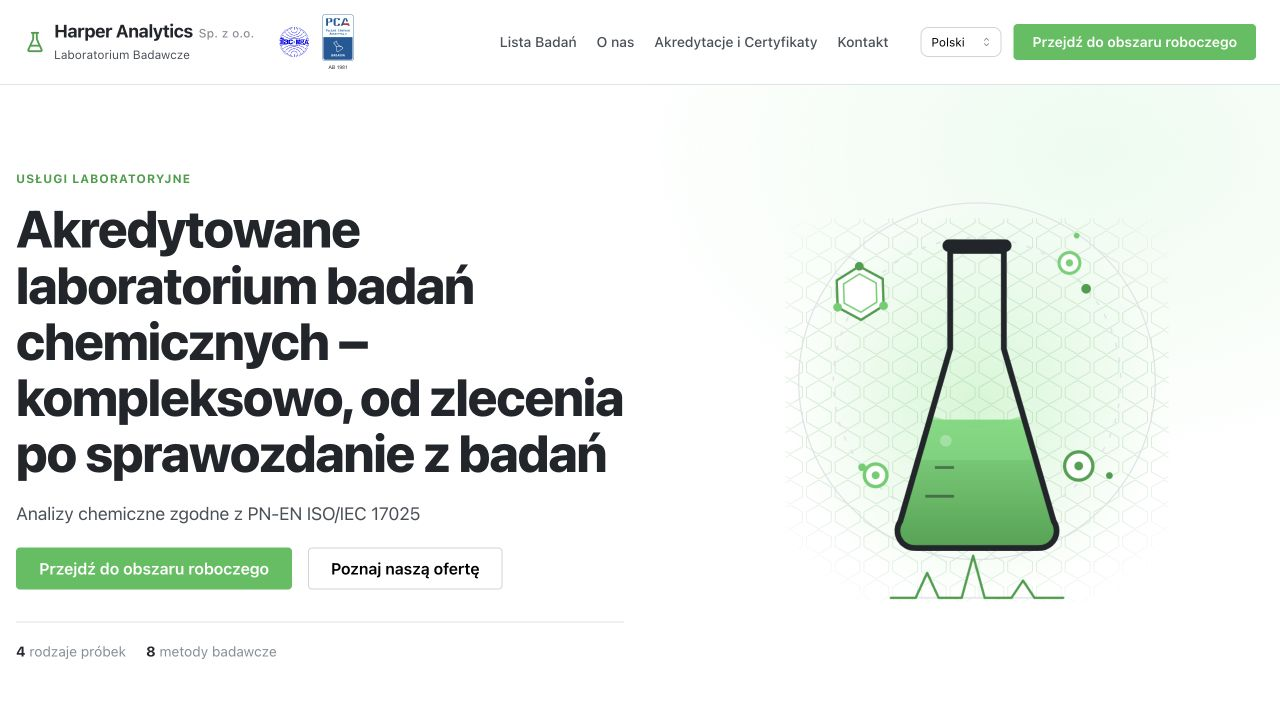
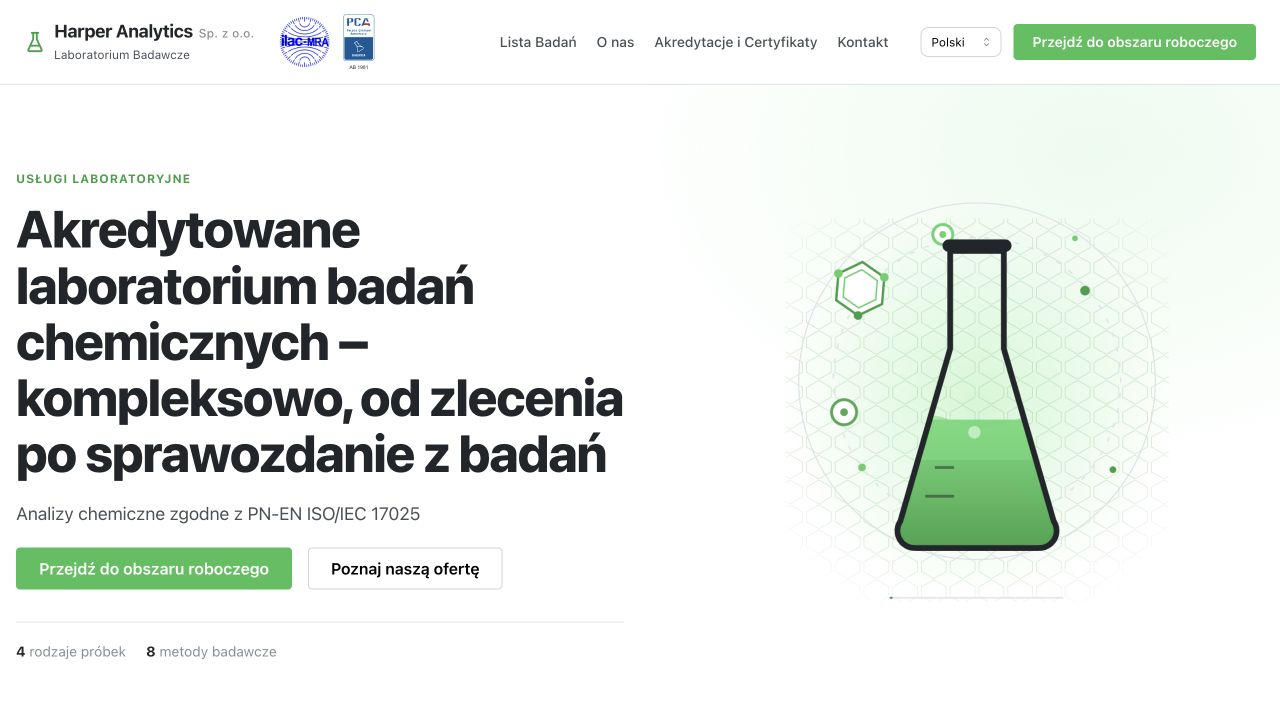
Set ILAC MRA height to 95 percent of PCA

diff --git a/apps/web/src/components/landing/landing.module.css b/apps/web/src/components/landing/landing.module.css
@@ -443,9 +443,7 @@
 }
 
 .ilacLogo {
-  /* Match the rendered width of the 203 x 359 PCA artwork. */
-  width: calc(var(--accreditation-logo-height) * 203 / 359);
-  height: auto;
+  height: calc(var(--accreditation-logo-height) * 0.95);
 }
 
 .accreditationCopy {
